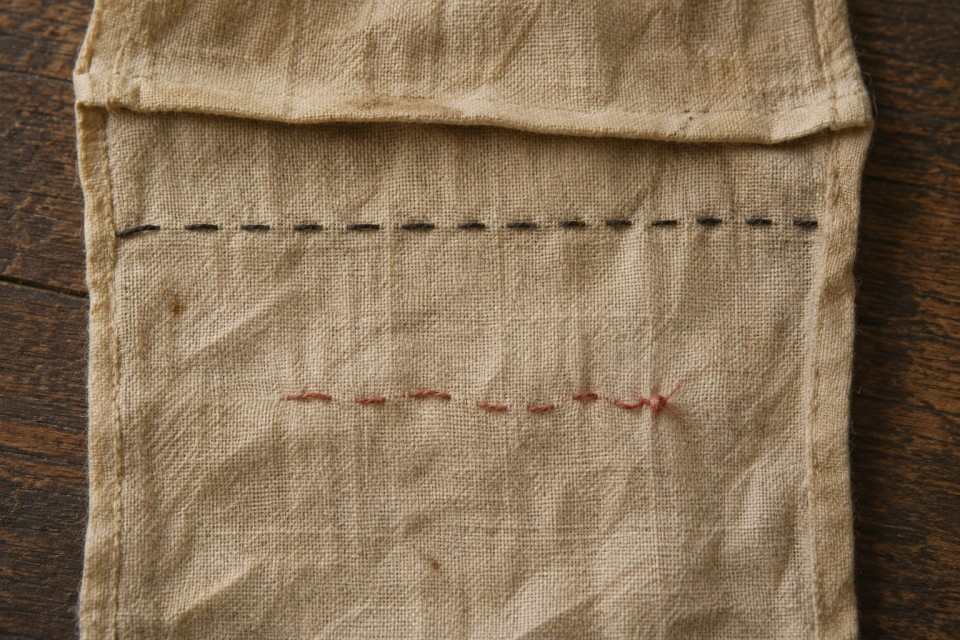
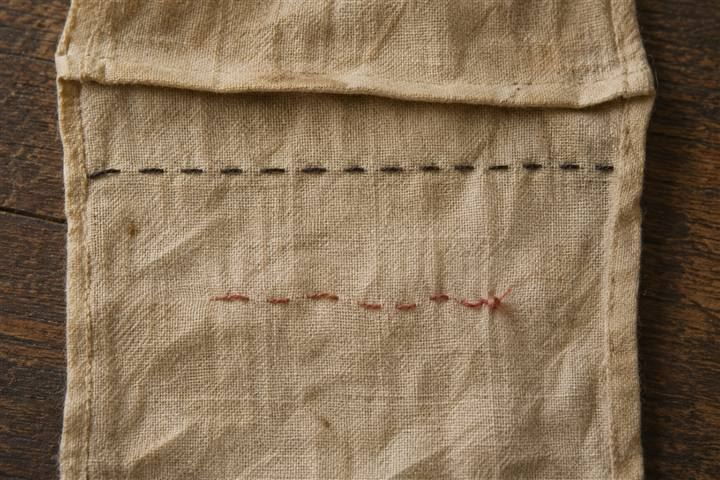
持有布带时提前载入针脚近景

diff --git a/DEV_LOG.md b/DEV_LOG.md
@@ -2,6 +2,8 @@
 
 ## 0.20.8 · 拆墙板之前回来一趟
 
+公开版首次复查时，固定到一个 Pages 节点的 Chrome 刷新后立即翻面，文字已经出现，图片仍在下载。文件哈希与本地相同，通过本机系统代理能完整读图。将布背图从 226,784 字节压到 75,836 字节，取下布带时开始预载，持有布带的存档会在场景模型发起请求前预载。解读红线仍由玩家翻面触发。
+
 重读封存 2D 的开场，原版来信给李明一个能亲手做的事。3D 里已经出现的修屋回执只有寄件地址这个用途，走廊身高线则重复解释字轮。现在回执上签过的拆板工程让李明想起墙上的布带。片头和前门都可以了解返乡缘由。母亲用黑线记他的身高，背面那道红线是谁缝的，要自己收下、翻看才会知道。下山时带着布卷会影响车上一段对话，挂回墙上后，手记保留，车上不再出现布卷。字轮的排列仍可从全家福核对。[2D 剧情参考](https://github.com/huachen19867/huisha_game_AI/blob/98ff18e/docs/2D_STORY.md)
 
 三把房门钥匙由老周在值班窗口保管。看登记簿报新号、签领，架上会空出相应挂钩。旧版在路边木柜前保存的玩家能看到去值班室的新指示。前门绕实际铰链转动，移动碰撞复用院门的旋转门扇计算；院门改按名称查找，以免增加前门后取错铰链。布带的扣眼、挂钉和布面分开建模。挂回时只改持有状态，新增道具、观察手记仍走原来的通知和存档入口。[布背材质与生成提示](assets/art/height-strip.source.json)
